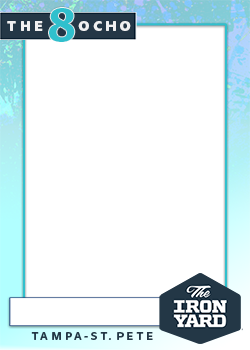
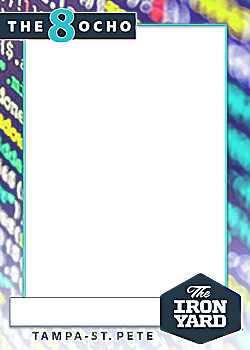
Created new designs and layouts for landing page and design views - sports, entertainment, and ironyard

Changed region(s): [[0.0, 0.0, 1.0, 1.0], [0.756, 0.9714, 0.84, 1.0]]

diff --git a/app/assets/stylesheets/style.scss b/app/assets/stylesheets/style.scss
@@ -5,11 +5,12 @@ body {
   padding: 0;
 }
 
-.container {
+.wrapper {
   background-image: linear-gradient(#ed2024, white);
 }
 
 .logo {
+  margin-top: -1em;
   text-align: center;
 }
 
@@ -64,7 +65,14 @@ img {
 
 .intro-text h3 {
   text-align: center;
-  margin: 2em 3em;
+  margin: 1em 3em;
+  color: #3935a5;
+  font-size: 18px;
+}
+
+.category h3 {
+  text-align: center;
+  margin: 1em;
   color: #3935a5;
   font-size: 18px;
 }
@@ -436,3 +444,25 @@ div p {
   color: #3935a5;
   text-align: center;
 }
+
+// media queries
+
+// $breakpoint: 500px;
+//
+// @media screen (max-width: $breakpoint) {
+//   .photocard {
+//     image_tag("photocard_300px.png");
+//   }
+// }
+
+// @media screen and (min-width: 487px) and (max-width: 1079px) {
+//   .photocard {
+//     ("photocard_700px.png");
+//   }
+// }
+
+// @media screen and (min-width: 1080px) {
+//   .site-header .site-branding {
+//     background-image: url("../images/logo_big.png") !important;
+//   }
+// }

diff --git a/app/assets/stylesheets/pngify.scss b/app/assets/stylesheets/pngify.scss
@@ -38,5 +38,5 @@ body {
   position: absolute;
   top: 25px;
   left: 25px;
-  z-index: -5;
+  z-index: -1;
 }
